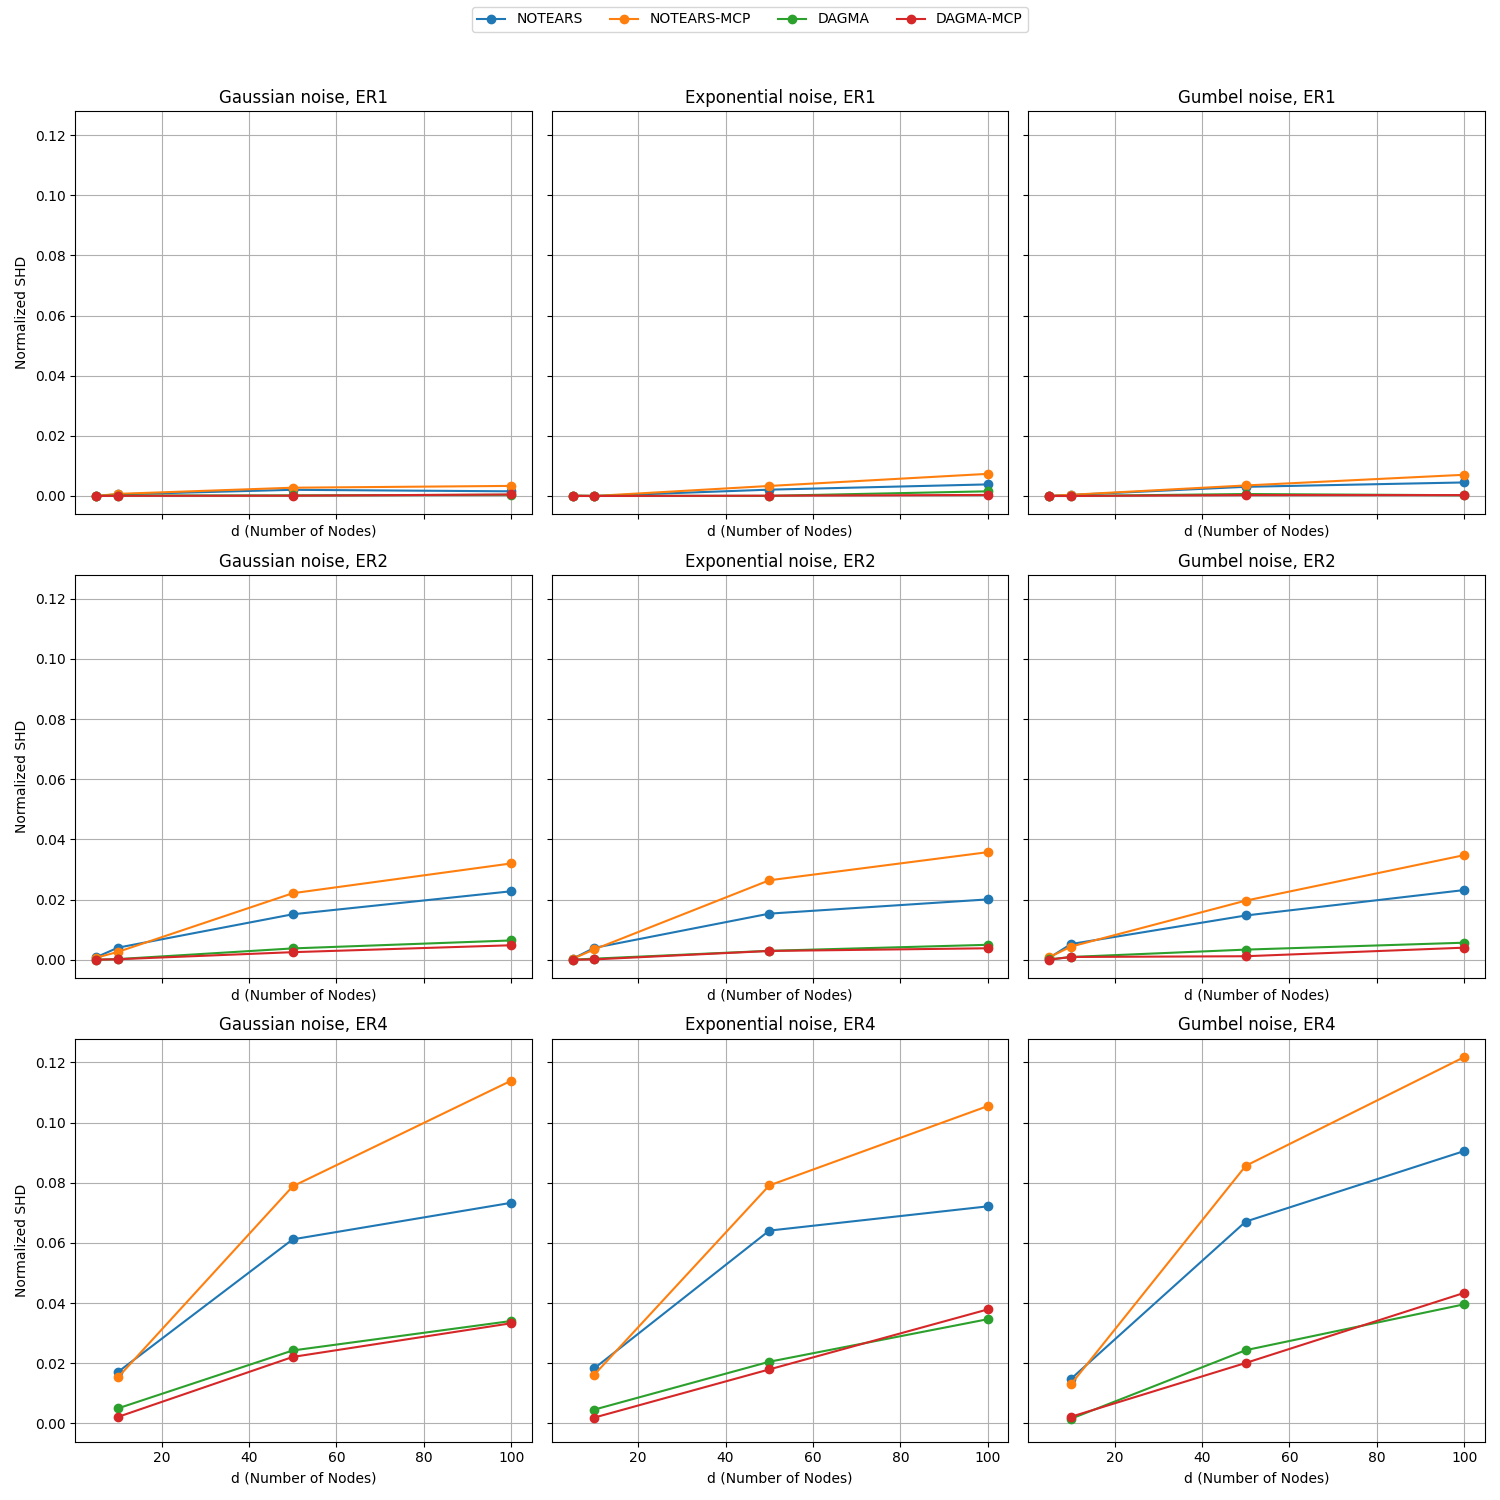
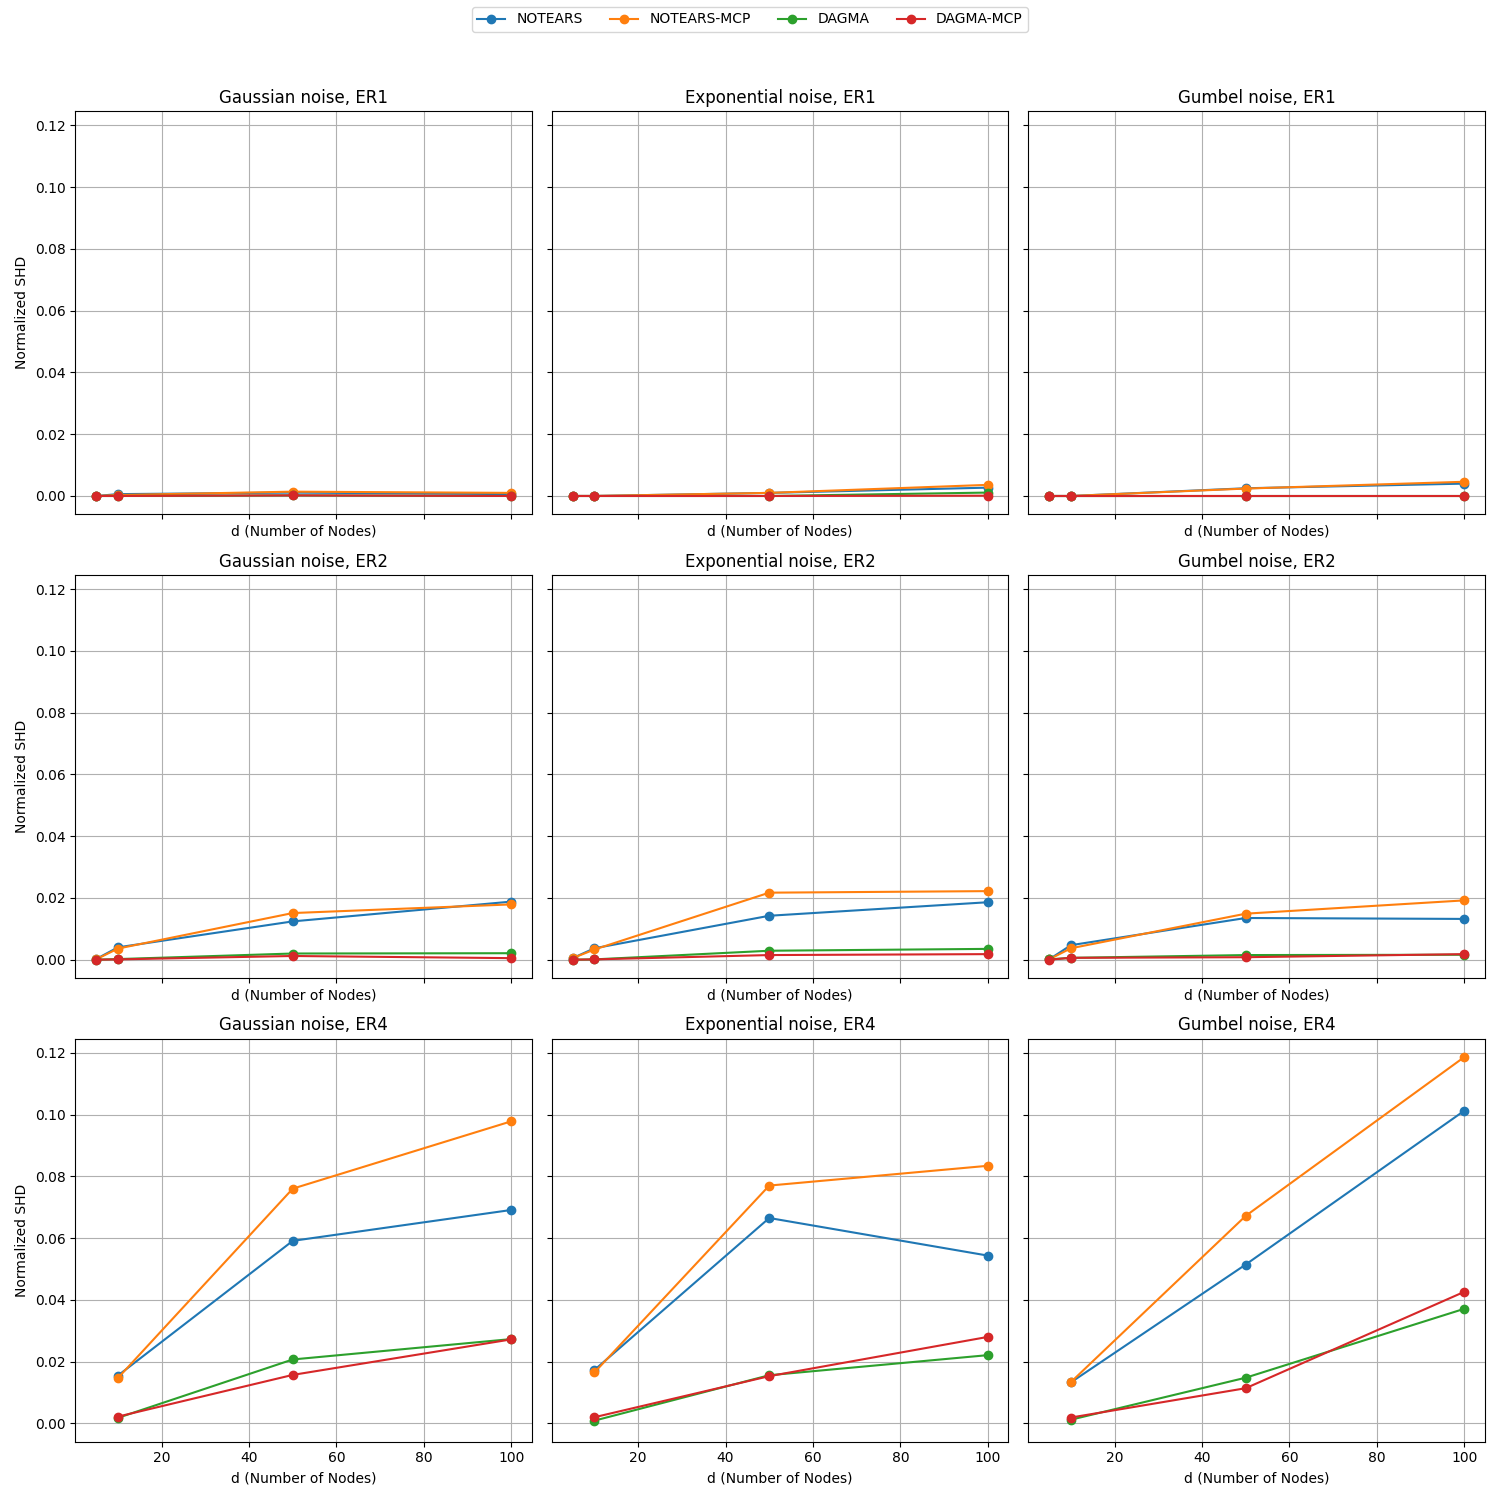
split out eq and random

diff --git a/benchmark/mcp_linear/reconstruct.py b/benchmark/mcp_linear/reconstruct.py
@@ -8,20 +8,50 @@ noise_types = ["gauss", "exp", "gumbel"]
 methods = ["NOTEARS", "NOTEARS-MCP", "DAGMA", "DAGMA-MCP"]
 
 noise_names = {"gauss": "Gaussian", "exp": "Exponential", "gumbel": "Gumbel"}
+error_vars = ["eq", "random"]
 
-num_rows = len(s0_ratios)
-num_cols = len(noise_types)
-fig, axes = plt.subplots(
-    num_rows, num_cols, figsize=(15, 5 * num_rows), sharex=True, sharey=True
-)
 
 results = {
     method: {
-        sem: {str(s0): {d: [] for d in num_nodes} for s0 in s0_ratios}
-        for sem in noise_types
+        ev: {
+            sem: {str(s0): {d: [] for d in num_nodes} for s0 in s0_ratios}
+            for sem in noise_types
+        }
+        for ev in error_vars
     }
     for method in methods
 }
+
+
+def make_error_var_plot(error_var):
+    num_rows = len(s0_ratios)
+    num_cols = len(noise_types)
+    fig, axes = plt.subplots(
+        num_rows, num_cols, figsize=(15, 5 * num_rows), sharex=True, sharey=True
+    )
+
+    for i, s0_ratio in enumerate(s0_ratios):
+        for j, noise in enumerate(noise_types):
+            ax = axes[i, j] if num_rows > 1 else axes[j]
+
+            for method in methods:
+                means = [
+                    np.mean(results[method][error_var][noise][str(s0_ratio)][d])
+                    for d in num_nodes
+                ]
+                ax.plot(num_nodes, means, marker="o", label=method)
+
+            ax.set_title(f"{noise_names[noise]} noise, ER{s0_ratio}")
+            ax.set_xlabel("d (Number of Nodes)")
+            if j == 0:
+                ax.set_ylabel("Normalized SHD")
+            ax.grid(True)
+
+    handles, labels = ax.get_legend_handles_labels()
+    fig.legend(handles, labels, loc="upper center", ncol=len(methods))
+    plt.tight_layout(rect=[0, 0, 1, 0.95])
+    plt.savefig(f"normalized_shd_n=1000_var={error_var}_trials=10.png")
+
 
 file_name = "mcp_loss.txt"
 
@@ -32,29 +62,14 @@ for method in methods:
     for _, row in sub_df.iterrows():
         d = row["d"]
         edges = int(row["edges"])
+        error_var = row["error_var"]
         noise_type = row["noise_type"]
         er_type = str(int(edges / d))
-        results[method][noise_type][er_type][d].append(row["mean_normalized_shd"])
+        results[method][error_var][noise_type][er_type][d].append(
+            row["mean_normalized_shd"]
+        )
 
 print(f"results are {results}")
 
-for i, s0_ratio in enumerate(s0_ratios):
-    for j, noise in enumerate(noise_types):
-        ax = axes[i, j] if num_rows > 1 else axes[j]
-
-        for method in methods:
-            means = [
-                np.mean(results[method][noise][str(s0_ratio)][d]) for d in num_nodes
-            ]
-            ax.plot(num_nodes, means, marker="o", label=method)
-
-        ax.set_title(f"{noise_names[noise]} noise, ER{s0_ratio}")
-        ax.set_xlabel("d (Number of Nodes)")
-        if j == 0:
-            ax.set_ylabel("Normalized SHD")
-        ax.grid(True)
-
-handles, labels = ax.get_legend_handles_labels()
-fig.legend(handles, labels, loc="upper center", ncol=len(methods))
-plt.tight_layout(rect=[0, 0, 1, 0.95])
-plt.savefig(f"normalized_shd_n=1000_var=eq_trials=10.png")
+make_error_var_plot("eq")
+make_error_var_plot("random")
